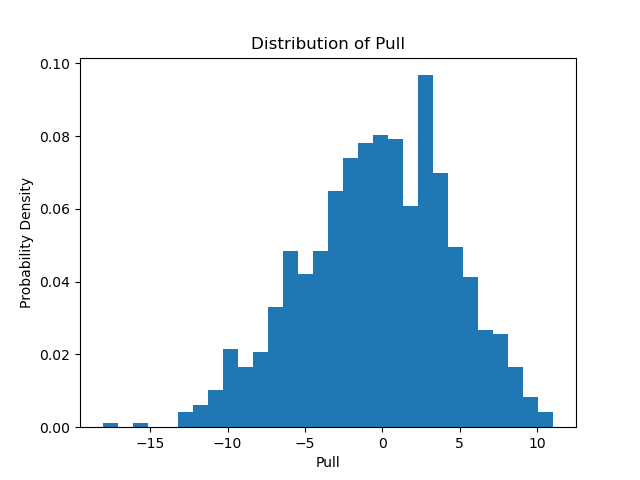
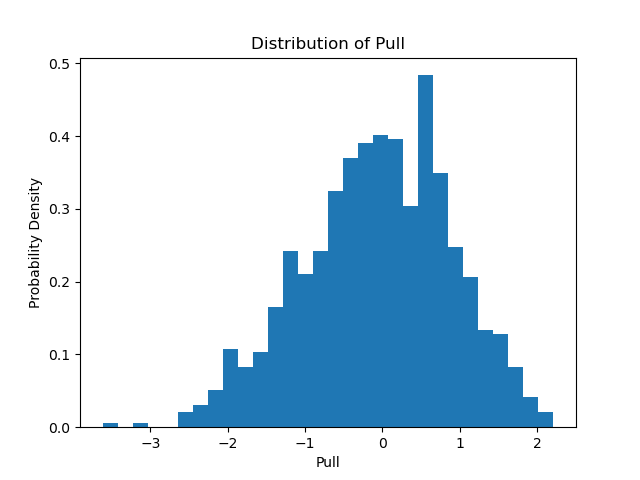
fixing small bug in exercise 4

diff --git a/src/compton_simulator_multiple.py b/src/compton_simulator_multiple.py
@@ -11,7 +11,7 @@ def repetitions(sigma_E=sigma_E):
     uncertainties = []
     for i in range(N):
         angles_deg, E_measured, E_true = compton_simulator1.simulate_measurement(sigma_E)
-        mass, uncertainty = fit_electron_mass.maximum_likelihood_fit(angles_deg, E_measured)
+        mass, uncertainty = fit_electron_mass.maximum_likelihood_fit(angles_deg, E_measured, sigma_E)
         masses.append(mass)
         uncertainties.append(uncertainty)
     return masses, uncertainties

diff --git a/src/fit_electron_mass.py b/src/fit_electron_mass.py
@@ -17,7 +17,7 @@ def compton_model(theta_deg, me):
     theta_rad = np.radians(theta_deg)
     return E_in / (1 + (E_in / me) * (1 - np.cos(theta_rad)))
 
-def maximum_likelihood_fit(angles, E_measured):
+def maximum_likelihood_fit(angles, E_measured, sigma_E = sigma_E):
     # perform maximum likelihood fit to simulated data points
     popt, pcov = curve_fit(compton_model, angles, E_measured, p0=[0.5], sigma=np.full_like(E_measured, sigma_E), absolute_sigma=True)
     me_fit = popt[0]
